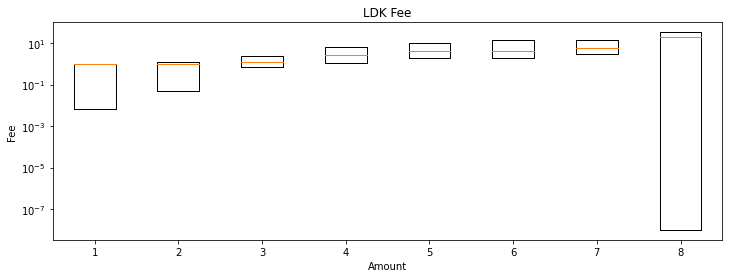
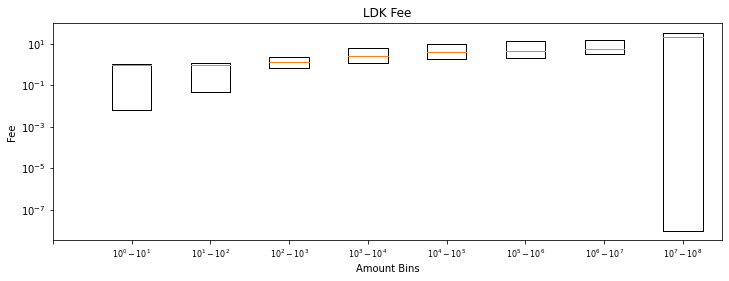
added modified images

diff --git a/Statistics/plot_results.py b/Statistics/plot_results.py
@@ -17,8 +17,8 @@ from ordered_set import OrderedSet
 
 # plt.style.use('ggplot')
 file = 'LN_results_10k'
-# df = pd.read_csv('/Users/ssarasw2/Desktop/LN pathfinding/LN-PathFinding/New_MP_results/LN_results_10k.csv')
-df = pd.read_csv(f'C:/Users/sindu/Work/UNCC Research/GIT_LN/LN-PathFinding/New_MP_results/{file}.csv')
+df = pd.read_csv(f'/Users/ssarasw2/Desktop/LN pathfinding/LN-PathFinding/New_MP_results/{file}.csv')
+# df = pd.read_csv(f'C:/Users/sindu/Work/UNCC Research/GIT_LN/LN-PathFinding/New_MP_results/{file}.csv')
 df = df.fillna("[[],0,0,0,'Failure']")
 df = df.drop_duplicates()
 
@@ -81,12 +81,12 @@ for a in algo:
     sdf[a] = sdf[a]*100/sdf['Txn Count']
 sdf['Txn Count'] = sdf['Txn Count']*100/sdf['Txn Count']
 # sdf['Bins'] = [f'{i}-{i+1}' for i in range(8)]
-sdf[sdf.columns[0:-1]].plot(kind='bar', color=color) #bar plot
-plt.xlabel('Amount bins')
-plt.ylabel('percentage')
-plt.title('Success Rate percentage')
-plt.legend(loc='center left', bbox_to_anchor=(1, 0.5))
-plt.show()
+# sdf[sdf.columns[0:-1]].plot(kind='bar', color=color) #bar plot
+# plt.xlabel('Amount bins')
+# plt.ylabel('percentage')
+# plt.title('Success Rate percentage')
+# plt.legend(loc='center left', bbox_to_anchor=(1, 0.5))
+# plt.show()
 
 sdf['Actual Txn Count'] = amt_bins
 # print(sdf.to_latex(index=False))
@@ -97,6 +97,7 @@ print('\nSuccess Rate:\n\n', tabulate(srate, headers = 'keys', tablefmt = 'psql'
 #-------------------------------------------------------------------------------------------------
 # plot data frame (line graph), pass dict to the function
 def df_plot(data, amt_bins, algo, title, xlabel, ylabel):
+    fig, ax = plt.subplots(figsize=plt.figaspect(1/3))
     df_temp = pd.DataFrame(data)
     ratio_df = pd.DataFrame()
     for a in algo:
@@ -107,17 +108,22 @@ def df_plot(data, amt_bins, algo, title, xlabel, ylabel):
     plt.title(title)
     plt.xlabel(xlabel)
     plt.ylabel(ylabel)
+    
+    xticks = [i for i in range(8)]
+    xticklabels = [rf'$10^{i}-10^{i+1}$' for i in range(8)]  
+    plt.xticks(xticks, xticklabels, rotation=0, fontsize=7)
+
     plt.show()
 
-df_plot(srate, amt_bins, algo, 'Success Rate', 'Amount bins', 'Ratio') 
+df_plot(srate, amt_bins, algo, 'Success Rate', 'Amount Bins', 'Ratio') 
 
 
-pd.DataFrame(srate).plot(kind='bar', color=color) #bar
-plt.legend(loc='center left', bbox_to_anchor=(1, 0.5))
-plt.title('Success Rate')
-plt.xlabel('Amount bins')
-plt.ylabel('Count')
-plt.show()
+# pd.DataFrame(srate).plot(kind='bar', color=color) #bar
+# plt.legend(loc='center left', bbox_to_anchor=(1, 0.5))
+# plt.title('Success Rate')
+# plt.xlabel('Amount bins')
+# plt.ylabel('Count')
+# plt.show()
 
 #-------------------------------------------------------------------------------------------------
 #graph types
@@ -134,6 +140,9 @@ def plot_graph(x, y, kind, xlog, ylog, title, xlabel, ylabel):
         plt.yscale('log')
     plt.xlabel(xlabel)
     plt.ylabel(ylabel)
+    xticks = [i for i in range(9)]
+    xticklabels = [''] + [rf'$10^{i}-10^{i+1}$' for i in range(8)]  
+    plt.xticks(xticks, xticklabels,fontsize=8)
     plt.show()
     
 #find median fee in the amount bin, return list of list of fees in bins, list of median fee   
@@ -185,7 +194,7 @@ for a in algo:
     name = f'{a}fee'
     step = 1
     fee_list, fee_med, amount_list = fee_df(val, name, step)
-    plot_graph(fee_list, 0, 'box', False, True, f'{a} Fee', 'Amount', 'Fee')
+    plot_graph(fee_list, 0, 'box', False, True, f'{a} Fee', 'Amount Bins', 'Fee')
     # plot_graph(range(len(fee_med)), fee_med,'scatter', False, True, f'{a} Median Fee', 'Amount', 'Fee')
         
     w_sum = 0 
